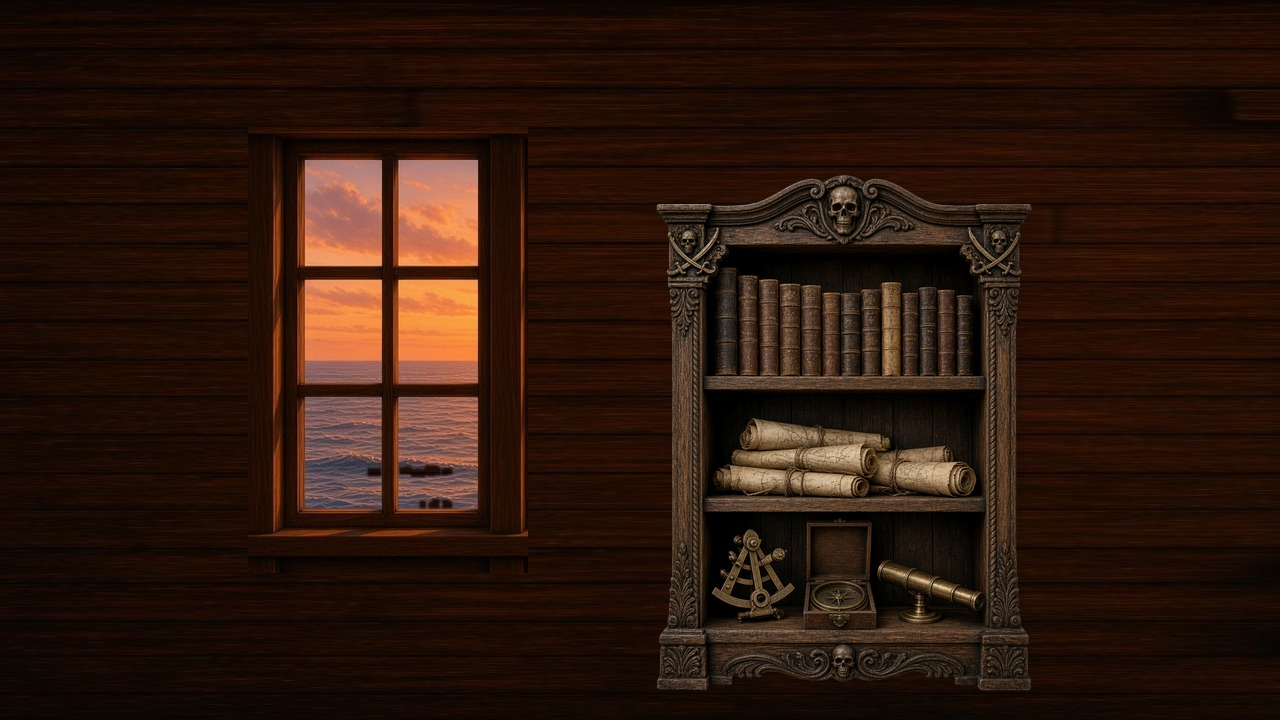
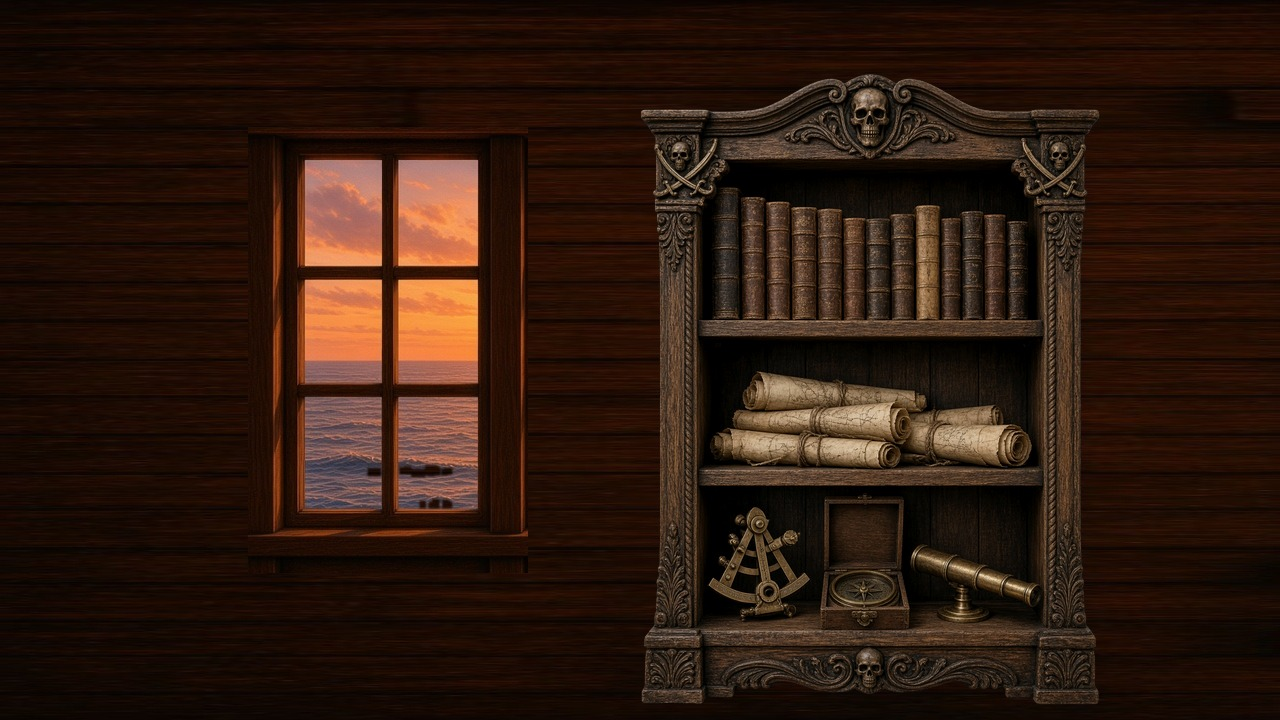
Scale the port bookshelf up larger on the wall
Fill more of the port planks so the bookcase reads big.

Changed region(s): [[0.5, 0.0917, 0.875, 0.9778]]

diff --git a/pirates-cabin.html b/pirates-cabin.html
@@ -62,7 +62,7 @@
           </div>
           <div class="cabin-face cabin-face-port">
             <img
-              src="images/cabin-port-wall-v15.jpg?v=1"
+              src="images/cabin-port-wall-v15.jpg?v=2"
               alt="Port wall with the left stern window and frame on the left"
               draggable="false"
             />
